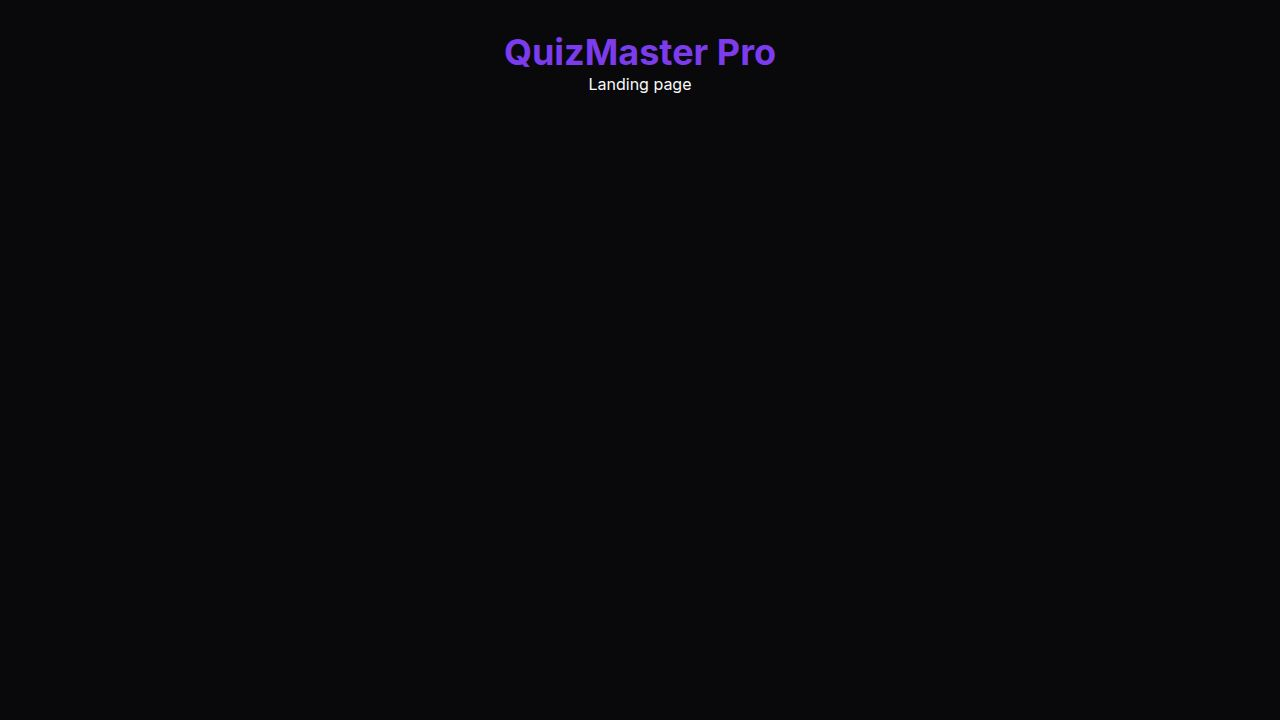
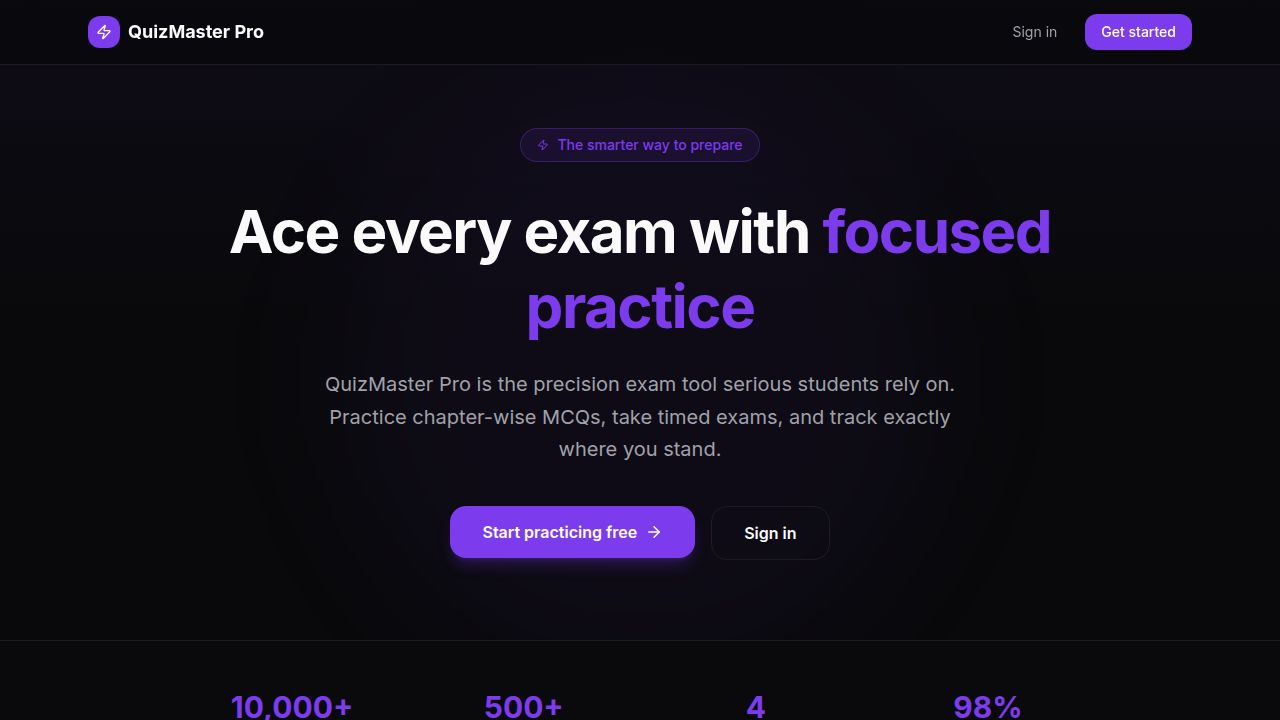
Fix bugs in exam timer, accuracy reporting, and bookmarking functionality
Updates `admin.ts` and `exams.ts` to fetch accurate bookmark and wrong answer data, and modifies `ExamSession.tsx` to correctly manage the exam timer using `useEffect`.

Replit-Commit-Author: Agent
Replit-Commit-Session-Id: 1d020f9a-46ec-4922-92cd-064f8c951cc3
Replit-Commit-Checkpoint-Type: full_checkpoint
Replit-Commit-Event-Id: b4da0c5c-8220-4ef7-a9fa-98c30d871449
Replit-Commit-Screenshot-Url: https://storage.googleapis.com/screenshot-production-us-central1/150f47a8-70c3-4f97-8244-7e10470edf70/1d020f9a-46ec-4922-92cd-064f8c951cc3/IXMsLYG
Replit-Helium-Checkpoint-Created: true

diff --git a/artifacts/api-server/src/routes/exams.ts b/artifacts/api-server/src/routes/exams.ts
@@ -1,5 +1,5 @@
 import { Router } from "express";
-import { db, examSessionsTable, examResultsTable, mcqsTable, chaptersTable, wrongAnswersTable } from "@workspace/db";
+import { db, examSessionsTable, examResultsTable, mcqsTable, chaptersTable, wrongAnswersTable, bookmarksTable } from "@workspace/db";
 import { eq, and, inArray } from "drizzle-orm";
 import { requireAuth, type AuthRequest } from "../middlewares/auth";
 
@@ -13,12 +13,18 @@ router.get("/exams", requireAuth, async (req: AuthRequest, res): Promise<void> =
     const mcqs = s.mcqIds.length > 0
       ? await db.select().from(mcqsTable).where(inArray(mcqsTable.id, s.mcqIds))
       : [];
+    const [bookmarks, wrongs] = mcqs.length > 0 ? await Promise.all([
+      db.select({ mcqId: bookmarksTable.mcqId }).from(bookmarksTable).where(and(eq(bookmarksTable.userId, userId), inArray(bookmarksTable.mcqId, mcqs.map(m => m.id)))),
+      db.select({ mcqId: wrongAnswersTable.mcqId }).from(wrongAnswersTable).where(and(eq(wrongAnswersTable.userId, userId), inArray(wrongAnswersTable.mcqId, mcqs.map(m => m.id)))),
+    ]) : [[], []];
+    const bookmarkedIds = new Set(bookmarks.map(b => b.mcqId));
+    const wrongIds = new Set(wrongs.map(w => w.mcqId));
     result.push({
       ...s,
       timeLimitMinutes: s.timeLimitMinutes ?? null,
       completedAt: s.completedAt ? s.completedAt.toISOString() : null,
       startedAt: s.startedAt.toISOString(),
-      mcqs: mcqs.map(m => ({ ...m, isBookmarked: false, isWrong: false })),
+      mcqs: mcqs.map(m => ({ ...m, isBookmarked: bookmarkedIds.has(m.id), isWrong: wrongIds.has(m.id) })),
     });
   }
   res.json(result);
@@ -66,12 +72,19 @@ router.post("/exams", requireAuth, async (req: AuthRequest, res): Promise<void> 
     startedAt: new Date(),
   }).returning();
 
+  const [newBookmarks, newWrongs] = selected.length > 0 ? await Promise.all([
+    db.select({ mcqId: bookmarksTable.mcqId }).from(bookmarksTable).where(and(eq(bookmarksTable.userId, userId), inArray(bookmarksTable.mcqId, selected.map(m => m.id)))),
+    db.select({ mcqId: wrongAnswersTable.mcqId }).from(wrongAnswersTable).where(and(eq(wrongAnswersTable.userId, userId), inArray(wrongAnswersTable.mcqId, selected.map(m => m.id)))),
+  ]) : [[], []];
+  const newBookmarkedIds = new Set(newBookmarks.map(b => b.mcqId));
+  const newWrongIds = new Set(newWrongs.map(w => w.mcqId));
+
   res.status(201).json({
     ...session,
     timeLimitMinutes: session.timeLimitMinutes ?? null,
     completedAt: null,
     startedAt: session.startedAt.toISOString(),
-    mcqs: selected.map(m => ({ ...m, isBookmarked: false, isWrong: false })),
+    mcqs: selected.map(m => ({ ...m, isBookmarked: newBookmarkedIds.has(m.id), isWrong: newWrongIds.has(m.id) })),
   });
 });
 
@@ -85,12 +98,18 @@ router.get("/exams/:id", requireAuth, async (req: AuthRequest, res): Promise<voi
   const mcqs = session.mcqIds.length > 0
     ? await db.select().from(mcqsTable).where(inArray(mcqsTable.id, session.mcqIds))
     : [];
+  const [singleBookmarks, singleWrongs] = mcqs.length > 0 ? await Promise.all([
+    db.select({ mcqId: bookmarksTable.mcqId }).from(bookmarksTable).where(and(eq(bookmarksTable.userId, req.userId!), inArray(bookmarksTable.mcqId, mcqs.map(m => m.id)))),
+    db.select({ mcqId: wrongAnswersTable.mcqId }).from(wrongAnswersTable).where(and(eq(wrongAnswersTable.userId, req.userId!), inArray(wrongAnswersTable.mcqId, mcqs.map(m => m.id)))),
+  ]) : [[], []];
+  const singleBookmarkedIds = new Set(singleBookmarks.map(b => b.mcqId));
+  const singleWrongIds = new Set(singleWrongs.map(w => w.mcqId));
   res.json({
     ...session,
     timeLimitMinutes: session.timeLimitMinutes ?? null,
     completedAt: session.completedAt ? session.completedAt.toISOString() : null,
     startedAt: session.startedAt.toISOString(),
-    mcqs: mcqs.map(m => ({ ...m, isBookmarked: false, isWrong: false })),
+    mcqs: mcqs.map(m => ({ ...m, isBookmarked: singleBookmarkedIds.has(m.id), isWrong: singleWrongIds.has(m.id) })),
   });
 });
 

diff --git a/artifacts/api-server/src/routes/admin.ts b/artifacts/api-server/src/routes/admin.ts
@@ -1,6 +1,6 @@
 import { Router } from "express";
 import { db, usersTable, mcqsTable, subjectsTable, chaptersTable, examSessionsTable, examResultsTable } from "@workspace/db";
-import { eq, ilike, and, sql, desc } from "drizzle-orm";
+import { eq, ilike, and, sql, desc, avg, inArray } from "drizzle-orm";
 import { requireAuth, requireAdmin, type AuthRequest } from "../middlewares/auth";
 
 const router = Router();
@@ -79,14 +79,21 @@ router.get("/admin/reports/subjects", requireAuth, requireAdmin, async (_req, re
   for (const s of subjects) {
     const [mcqCount] = await db.select({ count: sql<number>`count(*)`.mapWith(Number) }).from(mcqsTable).where(eq(mcqsTable.subjectId, s.id));
     const [chapterCount] = await db.select({ count: sql<number>`count(*)`.mapWith(Number) }).from(chaptersTable).where(eq(chaptersTable.subjectId, s.id));
-    const [examCount] = await db.select({ count: sql<number>`count(*)`.mapWith(Number) }).from(examSessionsTable).where(eq(examSessionsTable.subjectId, s.id));
+    const subjectSessionIds = await db.select({ id: examSessionsTable.id }).from(examSessionsTable).where(eq(examSessionsTable.subjectId, s.id));
+    const examCount = subjectSessionIds.length;
+    const sessionIds = subjectSessionIds.map(r => r.id);
+    let avgAccuracy = 0;
+    if (sessionIds.length > 0) {
+      const [acc] = await db.select({ avg: avg(examResultsTable.accuracy) }).from(examResultsTable).where(inArray(examResultsTable.examSessionId, sessionIds));
+      avgAccuracy = acc?.avg != null ? Math.round(Number(acc.avg)) : 0;
+    }
 
     result.push({
       subjectId: s.id,
       subjectName: s.name,
       totalMcqs: mcqCount.count,
-      totalAttempts: examCount.count,
-      avgAccuracy: 75,
+      totalAttempts: examCount,
+      avgAccuracy,
       chapterCount: chapterCount.count,
     });
   }

diff --git a/artifacts/mcq-platform/src/pages/ExamSession.tsx b/artifacts/mcq-platform/src/pages/ExamSession.tsx
@@ -1,4 +1,4 @@
-import { useState, useCallback } from "react";
+import { useState, useCallback, useEffect } from "react";
 import { useParams, useLocation } from "wouter";
 import { motion, AnimatePresence } from "framer-motion";
 import { useGetExam, useSubmitExam } from "@workspace/api-client-react";
@@ -9,11 +9,12 @@ import { cn } from "@/lib/utils";
 function Timer({ minutes, onExpire }: { minutes: number; onExpire: () => void }) {
   const [remaining, setRemaining] = useState(minutes * 60);
 
-  useState(() => {
+  useEffect(() => {
     if (remaining <= 0) { onExpire(); return; }
     const t = setInterval(() => setRemaining(r => { if (r <= 1) { onExpire(); clearInterval(t); return 0; } return r - 1; }), 1000);
     return () => clearInterval(t);
-  });
+  // eslint-disable-next-line react-hooks/exhaustive-deps
+  }, []);
 
   const mins = Math.floor(remaining / 60);
   const secs = remaining % 60;